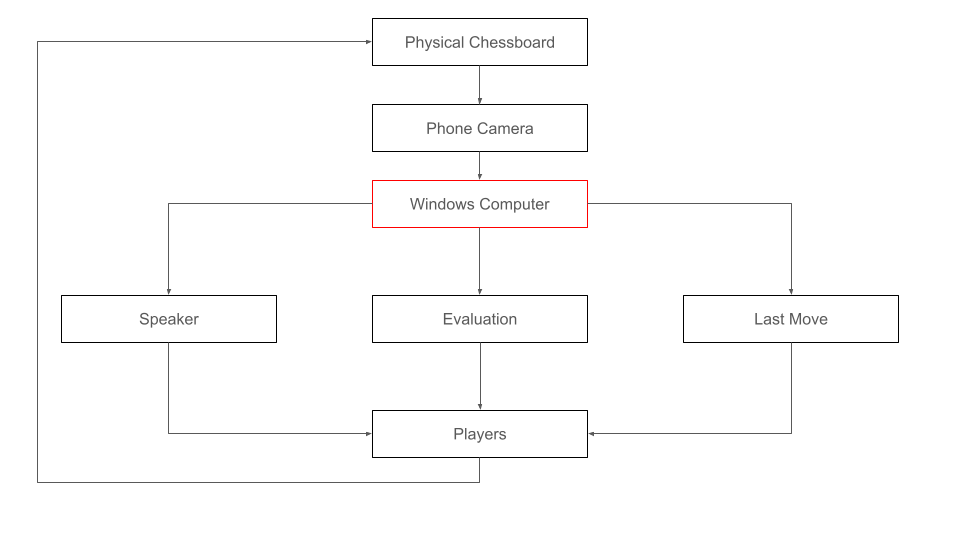
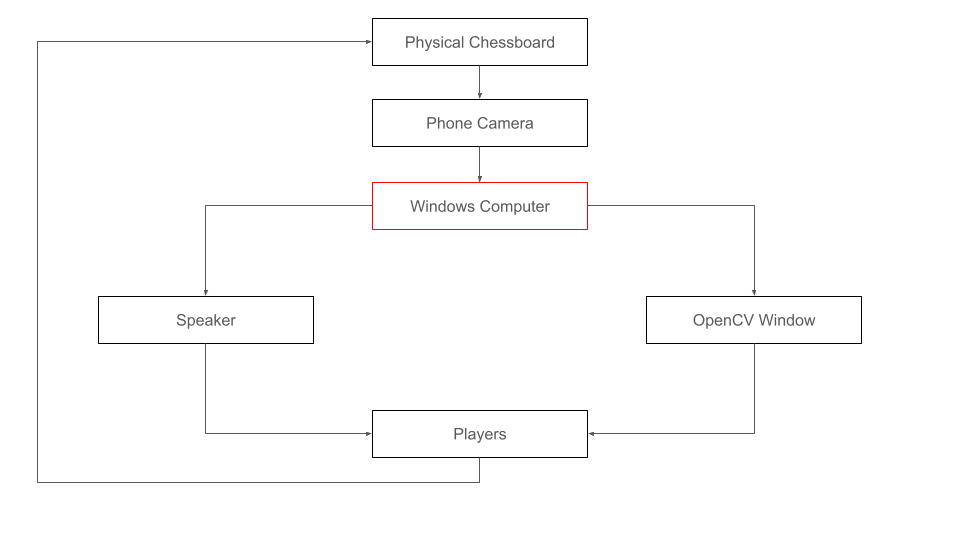
Update file for consistency across all versions

diff --git a/LobsterpincerSpectatorForWin/lpspectator/initialize_main_program.py b/LobsterpincerSpectatorForWin/lpspectator/initialize_main_program.py
@@ -52,8 +52,8 @@ def initialize_lpspectator(
             "\tFailed to initialize the Stockfish engine because of the lack of permission"
         )
         sys.exit()
-
     print("\tStockfish engine has been successfully initialized!")
+
     board = chess.Board(full_fen_of_starting_position)
     if board.is_checkmate() or board.is_stalemate():
         print(
@@ -64,9 +64,7 @@ def initialize_lpspectator(
         )
         quit_engine(engine)
         sys.exit()
-
     previous_fen = board.fen().split(" ")[0]
-
     fen_image = generate_fen_image(previous_fen)
     game = chess.pgn.Game()
     game.setup(board)
@@ -86,6 +84,7 @@ def initialize_lpspectator(
     cv2.waitKey(200)
     if critical_moment:
         play_critical_moment_audio()
+    game_over = False
     print("\tBoard has been successfully initialized!")
 
     cap = start_camera()
@@ -95,9 +94,8 @@ def initialize_lpspectator(
         print("\t\tPlease edit the `IMAGE_SOURCE` variable and rerun the program")
         quit_engine(engine)
         sys.exit()
-    print("\tCamera has been successfully initialized!\n")
     last_time_of_img_capture = time.time()
-    game_over = False
+    print("\tCamera has been successfully initialized!\n")
 
     if board_corners is None:
         print(

diff --git a/LobsterpincerSpectatorForWin/lpspectator/capture_and_label_img.py b/LobsterpincerSpectatorForWin/lpspectator/capture_and_label_img.py
@@ -8,7 +8,7 @@ import numpy as np
 import chess
 
 IMAGE_SOURCE = "http://10.0.0.45:8080/video"
-# IMAGE_SOURCE = "http://35.6.158.92:8080/video"
+# IMAGE_SOURCE = "http://35.6.92.68:8080/video"
 # IMAGE_SOURCE = "rtsp://192.168.248.88:554/out.h264"
 # IMAGE_SOURCE = 0
 """Global variable specifying the image source."""
@@ -222,7 +222,10 @@ if __name__ == "__main__":
         sys.exit()
     print("Initialization complete!")
 
-    if not os.path.exists("game_to_be_played.pgn"):  # Display the LED and LCD
+    if not os.path.exists(
+        "game_to_be_played.pgn"
+    ):  # Display the perspective-transformed image
+        window_name = "LED lights and LCD screen" if len(sys.argv) != 2 else sys.argv[1]
         count = 0
         _, previous_img = cap.read()
         last_time_of_img_capture = time.time()
@@ -238,9 +241,7 @@ if __name__ == "__main__":
                 last_time_of_img_capture = time.time()
 
             img_perspective_transformed = (
-                visualize_slider_values_and_get_transformed_img(
-                    img, "LED lights and LCD screen"
-                )
+                visualize_slider_values_and_get_transformed_img(img, window_name)
             )
 
             pressed_key = cv2.waitKey(1)

diff --git a/LobsterpincerSpectatorForWin/lobsterpincer_spectator.py b/LobsterpincerSpectatorForWin/lobsterpincer_spectator.py
@@ -1,10 +1,12 @@
 """This is the main program.
 
-Make sure to edit `IMAGE_SOURCE` in "capture__and_label_img.py" (in the "lpspectator"
-folder) before running this main program.
+Before running this main program, make sure to
 
-Also, make sure to set the terminal's directory to "LobsterpincerSpectatorForWin"
-(the directory that directly contains this file) before running this main program.
+1) edit `IMAGE_SOURCE` in "capture_and_label_img.py" (in the "lpspectator"
+folder)
+
+2) set the terminal's directory to "LobsterpincerSpectatorForWin"
+(the directory that directly contains this file)
 """
 
 
@@ -122,7 +124,7 @@ PRINT_BEST_MOVES_IN_TERMINAL = False
 evaluating each position."""
 
 TIME_BETWEEN_CONSECUTIVE_IMG_CAPTURES = (
-    1  # This means we capture 1 image per second when tuning the sliders
+    1  # This means we capture 1 image per second when tuning the slider values
 )
 """Parameter determining image-capture frequency during slider-value tuning."""
 

diff --git a/README.md b/README.md
@@ -11,13 +11,13 @@
 
 ## Overview
 
-Lobsterpincer Spectator (named after the "Lobster Pincer mate") is a chessboard processor that gives players feedback in real time. Specifically, it features the following functionalities:
+Lobsterpincer Spectator (named after the "Lobster Pincer mate") is a chessboard processor that gives players feedback in real time. There are three versions of the Lobsterpincer Spectator: Windows standalone version, [Raspberry Pi's standalone version](https://github.com/David-davidlxl/Lobsterpincer-Spectator-For-RPi), and [Windows and Raspberry Pi's combination version](https://github.com/David-davidlxl/Lobsterpincer-Spectator-For-Win-RPi-Combo). This repository contains the Windows standalone version of the Lobsterpincer Spectator. This version is the most compact of the three in terms of hardware (no hardware configuration is required), and it has the following features:
 
-- alert the players at critical moments of the game
-- inform the players of the evaluation of the current position
-- show the players the move played in the previous position
-
-This repository contains the Windows version of the Lobsterpincer Spectator. There is also [a separate repository for the Raspberry Pi version](https://github.com/David-davidlxl/Lobsterpincer-Spectator-For-RPi).
+- register each move in less than 6 seconds with manual chessboard detection (with Intel Core i5-8250U)
+  - register each move in less than 8 seconds with automatic chessboard detection (with Intel Core i5-8250U)
+- alert the players (via speaker) at critical moments of the game
+- inform the players (via OpenCV window) of the evaluation of the current position
+- show the players (via OpenCV window) the move played in the previous position
 
 ![](README%20attachments/High-level%20diagram%20for%20overview.png)
 
@@ -27,11 +27,12 @@ This repository contains the Windows version of the Lobsterpincer Spectator. The
 
 The only dependencies of “ChessPieceModelTraining” are [`numpy`](https://pypi.org/project/numpy/) and [`Pillow`](https://pypi.org/project/Pillow/), which are automatically installed during the installation procedure for "LobsterpincerSpectatorForWin" presented below.
 
-The installation procedure (for "LobsterpincerSpectatorForWin") below is tested to be fully functional for Windows 11.
+The installation procedure (for "LobsterpincerSpectatorForWin") below has been tested to be fully functional for Windows 11.
 
 First, install Python 3.10 from Microsoft Store. It is important NOT to install Python 3.11 instead as it is currently incompatible with [`onnxruntime`](https://pypi.org/project/onnxruntime/).
 
 Then make sure your `pip` is up to date by running the following command in Windows PowerShell:
+
 ```
 pip install --upgrade pip
 ```
@@ -98,7 +99,7 @@ Next, process the data and obtain the trained model as follows:
 
 6. Download the "SqueezeNet1p1_all_last.onnx" (and, optionally, "SqueezeNet1p1_all_last.h5") from Google Colab (in the "models" folder) to the "LobsterpincerSpectatorForWin/livechess2fen/selected_models" folder.
 
-The following video walks through the entire data-collection-and-model-training procedure. Only 5 images under the same lighting condition are collected in this demo in order to keep the video brief; you want to collect hundreds of images under various lighting conditions in practice. Also, even though Raspberry Pi is used for data collection in this demo, the process is very much the same for a Windows computer.
+The following video walks through the entire data-collection-and-model-training procedure. Only 5 images under the same lighting condition are collected in this demo in order to keep the video brief; you want to collect hundreds of images under various lighting conditions in practice. Also, even though ["LobsterpincerSpectatorForRPi"](https://github.com/David-davidlxl/Lobsterpincer-Spectator-For-RPi/tree/main/LobsterpincerSpectatorForRPi) and Raspberry Pi are used for data collection in this demo, the procedure is very much the same for "LobsterpincerSpectatorForWin" and a Windows computer.
 
 [![](https://markdown-videos.deta.dev/youtube/Yl_WZxMeNjk)](https://youtu.be/Yl_WZxMeNjk)
 
@@ -106,17 +107,19 @@ The following video walks through the entire data-collection-and-model-training 
 
 To use the main program, "lobsterpincer_spectator.py" (in "LobsterpincerSpectatorForWin"):
 
-1. Open the app on your phone (that turns your phone into an IP camera), mount the phone on some kind of physical structure, and edit the `IMAGE_SOURCE` variable in "capture_and_label_img.py" (see step 1 of the data-collection procedure above).
+1. Make sure your phone and Windows computer are in the same Wi-Fi network.
 
-2. Edit the `FULL_FEN_OF_STARTING_POSITION`, `A1_POS`, and `BOARD_CORNERS` variables in "capture_and_label_img.py" (feel free to edit other variables as well, but these three are generally the most relevant to the user).
+2. Open the app on your phone (that turns your phone into an IP camera), mount the phone on some kind of physical structure, and edit the `IMAGE_SOURCE` variable in "capture_and_label_img.py" (see step 1 of the data-collection procedure above).
 
-3. Run "lobsterpincer_spectator.py" from the "LobsterpincerSpectatorForWin" directory and tune the slider values.
+3. Edit the `FULL_FEN_OF_STARTING_POSITION`, `A1_POS`, and `BOARD_CORNERS` variables in "lobsterpincer_spectator.py" (feel free to edit other variables as well, but these three are generally the most relevant to the user).
 
-4. Play the game against your opponent. At any point during the game, feel free to press 'p' to pause the program, press 'r' to resume the program, or press 'q' to quit the program.
+4. Run "lobsterpincer_spectator.py" from the "LobsterpincerSpectatorForWin" directory and tune the slider values.
 
-5. After the game, feel free to use "saved_game.pgn" for postgame analysis.
+5. Play the game against your opponent. At any point during the game, feel free to press 'p' to pause the program, press 'r' to resume the program, or press 'q' to quit the program.
 
-The video in the [Overview](#overview) section demos the case where `BOARD_CORNERS` is set to `[[0, 0], [1199, 0], [1199, 1199], [0, 1199]]`. In this case, manual (predetermined) chessboard detection is used, which accelerates the move-registration process (each move takes about 5 seconds to register with Intel(R) Core(TM) i5-8250U). If `BOARD_CORNERS` is set to `None`, automatic (neural-network-based) chessboard detection is used, and each moves takes about 6 seconds to register with Intel(R) Core(TM) i5-8250U.
+6. After the game, feel free to use "saved_game.pgn" for postgame analysis.
+
+The video in the [Overview](#overview) section demos the case where `BOARD_CORNERS` is set to `[[0, 0], [1199, 0], [1199, 1199], [0, 1199]]`. In this case, manual (predetermined) chessboard detection is used, which accelerates the move-registration process (each move takes at most 6 seconds to register with Intel Core i5-8250U). If `BOARD_CORNERS` is set to `None`, automatic (neural-network-based) chessboard detection is used, and each moves takes at most 8 seconds to register with Intel Core i5-8250U.
 
 ## Technical Details
 
@@ -126,13 +129,15 @@ The figure below shows a high-level diagram for the signal-processing workflow:
 
 There are a few things to note:
 
-1. The chess-piece model discussed in the [Data Collection and Model Training](#data-collection-and-model-training) section above is responsible for move detection.
+1. The Windows computer is responsible for all the heavy computation.
 
-2. After each move is registered (i.e., validated), a sound effect is played. There are sound effects for making "regular" moves, capturing, castling, promoting, checking, and checkmating. These are the same sound effects that you would hear in an online game on [chess.com](http://www.chess.com).
+2. The chess-piece model discussed in the [Data Collection and Model Training](#data-collection-and-model-training) section above is responsible for move detection.
 
-3. Engine evaluation is accomplished with [Stockfish](https://stockfishchess.org/) 15.1 at depth 17, [which corresponds to an ELO rating of about 2695](https://chess.stackexchange.com/questions/8123/stockfish-elo-vs-search-depth/8125#8125).
+3. After each move is registered (i.e., validated), a sound effect is played. There are sound effects for making "regular" moves, capturing, castling, promoting, checking, and checkmating. These are the same sound effects that you would hear in an online game on [chess.com](http://www.chess.com).
 
-4. A critical moment is defined as one when one of the two conditions is satisfied:
+4. Engine evaluation is accomplished with [Stockfish](https://stockfishchess.org/) 15.1 at depth 17, [which corresponds to an ELO rating of about 2695](https://chess.stackexchange.com/questions/8123/stockfish-elo-vs-search-depth/8125#8125).
+
+5. A critical moment is defined as one when one of the two conditions is satisfied:
 
    1. The best move forces a checkmate (against the opponent) whereas the second-best move does not.
    
@@ -140,13 +145,15 @@ There are a few things to note:
 
     The precise definition can be found in the `is_critical_moment()` function in "evaluate_position.py" (in "LobsterpincerSpectatorForWin/lpspectator").
 
-5. Besides the ability to detect critical moments, the program also detects Harry the h-pawn and the Lobster Pincer mate. When a player pushes Harry the h-pawn into (or further into) the opponent's territory (but Harry has not promoted into a queen yet) and the player pushing the h-pawn is not losing (a position is considered losing if its floating-point evaluation is at most -2), the "Look at Harry! Come on, Harry!" audio is played. When the Lobster Pincer mate happens, a special piece of audio is played as well.
+6. Besides the ability to detect critical moments, the program also detects Harry the h-pawn and the Lobster Pincer mate. When a player pushes Harry the h-pawn into (or further into) the opponent's territory (but Harry has not promoted into a queen yet) and the player pushing the h-pawn is not losing (a position is considered losing if its floating-point evaluation is at most -2), the "Look at Harry! Come on, Harry!" audio is played. When the Lobster Pincer mate happens, a special piece of audio is played as well.
 
 ## Acknowledgements
 
 I give special thanks to David Mallasén Quintana. This project was made possible by Quintana's work: [LiveChess2FEN](https://github.com/davidmallasen/LiveChess2FEN). LiveChess2FEN provided me with the foundation for chess-piece identification. The "models.zip" file (in "ChessPieceModelTraining/ModelTrainer") came directly from the LiveChess2FEN repository, and the "SqueezeNet1p1_model_training.ipynb" notebook (in "ChessPieceModelTraining/ModelTrainer") was written largely based on the work in "cpmodels" folder in the repository as well.
 
-I also thank [Simon Williams](https://www.youtube.com/@GingerGM) and [Daniel Naroditsky](https://www.youtube.com/@DanielNaroditskyGM) for creating the entertaining YouTube videos that I used to create the audio files. They also inspired and helped me to become a much stronger chess player than I would be without them.
+I also thank Linmiao Xu for his [chessboard-recognizer project](https://github.com/linrock/chessboard-recognizer), which helped me develop the "ChessPieceModelTraining/BoardSlicer" program.
+
+Finally, I thank [Simon Williams](https://www.youtube.com/@GingerGM) and [Daniel Naroditsky](https://www.youtube.com/@DanielNaroditskyGM) for creating the entertaining YouTube videos that I used to create the audio files. They also inspired and helped me to become a much stronger chess player than I would be without them.
 
 ## Contact
 
